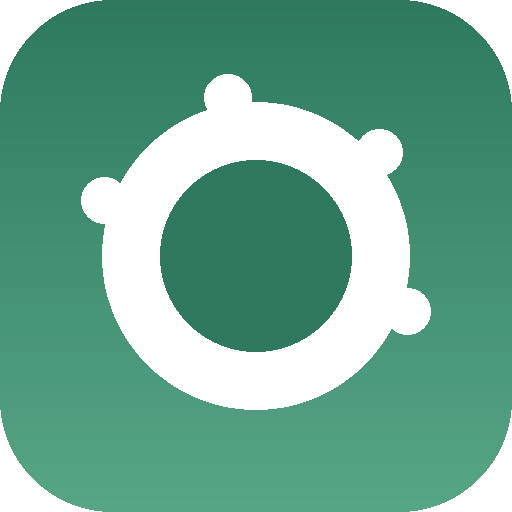
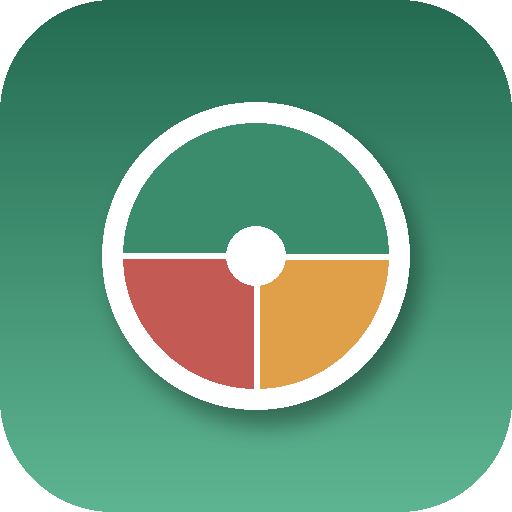
Rediseñar icono como 'método del plato'; añadir kcal/macros opcionales al calendario para copiar desde Fitia

Changed region(s): [[0.2188, 0.125, 0.8438, 0.8438], [0.1562, 0.3438, 0.25, 0.4375]]

diff --git a/index.html b/index.html
@@ -142,6 +142,12 @@
   }
   .cal-actions .save{background:var(--accent); color:#fff;}
   .cal-actions .delete{background:var(--warn-soft); color:var(--warn);}
+  .cal-macros-grid{display:grid; grid-template-columns:repeat(4,1fr); gap:8px; margin:4px 0 6px;}
+  .cal-macros-grid label{font-size:.68rem; color:var(--muted); display:flex; flex-direction:column; gap:3px; font-weight:600;}
+  .cal-macros-grid input{
+    width:100%; border:1px solid var(--border); border-radius:8px; padding:6px 4px; text-align:center;
+    font-family:inherit; font-size:.82rem; background:var(--bg); color:var(--ink);
+  }
 
   /* Bottom tab bar (iOS style) */
   .bottomnav{
@@ -444,7 +450,7 @@
 <div id="tab-progreso" class="tabpanel">
   <h2>📅 Calendario</h2>
   <div class="card">
-    <p style="font-size:.85rem; color:var(--muted); margin-top:0;">Apunta libremente cómo te ha ido cada día, si te apetece — no hace falta rellenarlo siempre ni todos los días. Se guarda solo en este dispositivo, no se sube a ningún sitio.</p>
+    <p style="font-size:.85rem; color:var(--muted); margin-top:0;">Apunta libremente cómo te ha ido cada día, si te apetece — no hace falta rellenarlo siempre ni todos los días. Si algún día quieres más precisión, puedes copiar aquí las kcal/macros que te dé Fitia. Todo se guarda solo en este dispositivo, no se sube a ningún sitio.</p>
     <div class="cal-nav">
       <button onclick="calShiftMonth(-1)" aria-label="Mes anterior">‹</button>
       <span id="calMonthLabel"></span>
@@ -463,6 +469,17 @@
       <button data-tag="dificil" onclick="calSetTag('dificil')">😮💨 Difícil</button>
     </div>
     <textarea id="calNote" rows="3" placeholder="¿Qué has comido? Notas libres, sin presión..."></textarea>
+
+    <button id="calMacrosToggle" onclick="calToggleMacros()" style="background:none; border:none; color:var(--accent); font-family:inherit; font-size:.8rem; font-weight:700; padding:8px 0 2px; cursor:pointer;">+ Añadir kcal/macros de Fitia (opcional)</button>
+    <div id="calMacrosFields" style="display:none;">
+      <div class="cal-macros-grid">
+        <label>kcal<input type="number" id="calKcal" inputmode="numeric" min="0" placeholder="0"></label>
+        <label>Prot. (g)<input type="number" id="calP" inputmode="numeric" min="0" placeholder="0"></label>
+        <label>Carbs (g)<input type="number" id="calC" inputmode="numeric" min="0" placeholder="0"></label>
+        <label>Grasa (g)<input type="number" id="calF" inputmode="numeric" min="0" placeholder="0"></label>
+      </div>
+    </div>
+
     <div class="cal-actions">
       <button class="save" onclick="calSaveDay()">Guardar</button>
       <button class="delete" id="calDeleteBtn" onclick="calDeleteDay()" style="display:none;">Borrar</button>
@@ -560,7 +577,8 @@ function renderCalendar(){
     const classes = ['cal-day'];
     if(key === today) classes.push('today');
     if(key === calState.selectedKey) classes.push('selected');
-    const dot = entry ? '<span class="dot">'+(entry.tag ? CAL_TAGS[entry.tag] : '•')+'</span>' : '';
+    const dotIcon = entry ? (entry.tag ? CAL_TAGS[entry.tag] : (entry.macros ? '🔢' : '•')) : '';
+    const dot = entry ? '<span class="dot">'+dotIcon+'</span>' : '';
     const dayLabel = date.toLocaleDateString('es-ES', {weekday:'long', day:'numeric', month:'long'});
     html += '<div class="'+classes.join(' ')+'" role="button" tabindex="0" aria-label="'+dayLabel+'" onclick="calSelectDay(\''+key+'\')" onkeydown="if(event.key===\'Enter\'||event.key===\' \'){event.preventDefault();calSelectDay(\''+key+'\');}">'+d+dot+'</div>';
   }
@@ -586,7 +604,16 @@ function calSelectDay(key){
   document.querySelectorAll('#calTags button').forEach(b=>{
     b.classList.toggle('active', b.dataset.tag === calState.pendingTag);
   });
-  document.getElementById('calDeleteBtn').style.display = (entry.tag || entry.note) ? 'inline-block' : 'none';
+
+  const macros = entry.macros || {};
+  document.getElementById('calKcal').value = macros.kcal ?? '';
+  document.getElementById('calP').value = macros.p ?? '';
+  document.getElementById('calC').value = macros.c ?? '';
+  document.getElementById('calF').value = macros.f ?? '';
+  document.getElementById('calMacrosFields').style.display = entry.macros ? 'block' : 'none';
+  document.getElementById('calMacrosToggle').textContent = entry.macros ? '− Ocultar kcal/macros' : '+ Añadir kcal/macros de Fitia (opcional)';
+
+  document.getElementById('calDeleteBtn').style.display = (entry.tag || entry.note || entry.macros) ? 'inline-block' : 'none';
   document.getElementById('calDayEditor').style.display = 'block';
   renderCalendar();
 }
@@ -598,14 +625,32 @@ function calSetTag(tag){
   });
 }
 
+function calToggleMacros(){
+  const fields = document.getElementById('calMacrosFields');
+  const isOpen = fields.style.display !== 'none';
+  fields.style.display = isOpen ? 'none' : 'block';
+  document.getElementById('calMacrosToggle').textContent = isOpen ? '+ Añadir kcal/macros de Fitia (opcional)' : '− Ocultar kcal/macros';
+}
+
+function calReadMacros(){
+  const num = id => {
+    const v = parseFloat(document.getElementById(id).value);
+    return isNaN(v) ? null : v;
+  };
+  const macros = { kcal: num('calKcal'), p: num('calP'), c: num('calC'), f: num('calF') };
+  const hasAny = Object.values(macros).some(v => v !== null);
+  return hasAny ? macros : null;
+}
+
 function calSaveDay(){
   if(!calState.selectedKey) return;
   const note = document.getElementById('calNote').value.trim();
+  const macros = calReadMacros();
   const log = calLoadLog();
-  if(!note && !calState.pendingTag){
+  if(!note && !calState.pendingTag && !macros){
     delete log[calState.selectedKey];
   } else {
-    log[calState.selectedKey] = { tag: calState.pendingTag, note: note };
+    log[calState.selectedKey] = { tag: calState.pendingTag, note: note, macros: macros };
   }
   calSaveLog(log);
   calSelectDay(calState.selectedKey);

diff --git a/service-worker.js b/service-worker.js
@@ -1,4 +1,4 @@
-const CACHE_VERSION = 'plan-alimentacion-v6';
+const CACHE_VERSION = 'plan-alimentacion-v7';
 const APP_SHELL = [
   './',
   './index.html',
